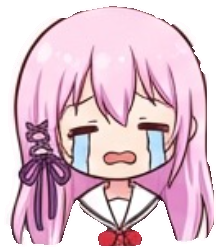
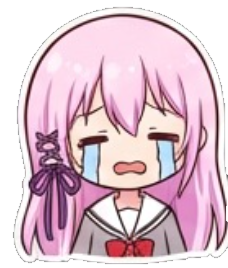
fix(kisara): preserve paused sticker uniform

diff --git a/DEVELOPMENT_NOTES.md b/DEVELOPMENT_NOTES.md
@@ -216,7 +216,7 @@
 - `npm test`: 3/3 Node tests passed for all theme IDs, canonical path stripping, and cross-theme article-context mapping.
 - `npm run build`: passed after the current Kisara site-wide presentation pass; 36 static pages generated, sitemap created, Pagefind indexed 36 pages.
 - Kisara Event 003 hidden-song flow (`2026-07-27`): `ココロスペアキー` is an unlockable one-tab-session secret track rather than a twelfth normal playlist entry. Normal `ended` playback loops only through the 11 base tracks; entering the secret track snapshots the previous normal track, time, and play intent, and secret completion restores that state. One page-lifecycle `AbortController` now owns audio/window listeners so Astro navigation cannot accumulate duplicate `ended` handlers. The solved investigation state reveals a compact achievement badge; active secret playback switches the player to a centered demon-pink emblem and emits masked heart silhouettes along separate curved paths. Browser checks confirmed one audio/player instance, `solved` achievement state, secret playback, clean return to `対策完了`, and no warning/error logs. `git diff --check`, `npm test` (3/3), and `npm run build` (42 pages, sitemap, 43-page Pagefind index) passed; fine particle motion remains for user visual acceptance.
-- Kisara demon-player sticker states (`2026-08-02`): the `kokoro-spare-key` player no longer uses the CSS triangle, pause bars, circular emblem, or mini equalizer. User sources `kisara/musicplayer1.png` and `kisara/musicplayer2.png` had baked checkerboard backgrounds and neighboring sticker fragments; the runtime RGBA assets `public/themes/kisara/assets/music-player-playing.png` and `music-player-paused.png` retain the character and a rebuilt smooth white sticker edge while removing those fragments. The demon variant maps the happy sticker to `playing` and the crying sticker to paused/loading states through the existing `data-state` flow, leaving normal and memory-secret players plus all playlist/session behavior unchanged. Desktop runtime checks confirmed both state swaps and removal of the old pseudo-elements; the `390x844` layout remained `390px` wide with a `224x66px` player and no overflow. Browser logs were empty, `git diff --check` passed, `npm test` passed 3/3, and `npm run build` generated 60 pages with a 61-page Pagefind index.
+- Kisara demon-player sticker states (`2026-08-02`): the `kokoro-spare-key` player no longer uses the CSS triangle, pause bars, circular emblem, or mini equalizer. User sources `kisara/musicplayer1.png` and `kisara/musicplayer2.png` had baked checkerboard backgrounds and neighboring sticker fragments; the runtime RGBA assets `public/themes/kisara/assets/music-player-playing.png` and `music-player-paused.png` retain the character and white sticker edge while removing those fragments. The first crying-sticker pass used a subject model and incorrectly removed gray uniform areas while leaving a ragged upper/right edge; that mask is superseded and must not be restored. The accepted correction removes only checker pixels connected to the source canvas border, preserving the complete gray uniform, collar, bow, hair, and original sticker outline. The demon variant maps the happy sticker to `playing` and the crying sticker to paused/loading states through the existing `data-state` flow, leaving normal and memory-secret players plus all playlist/session behavior unchanged. Desktop runtime checks confirmed both state swaps and removal of the old pseudo-elements; the `390x844` layout remained `390px` wide with a `224x66px` player and no overflow. Browser logs were empty, `git diff --check` passed, `npm test` passed 3/3, and `npm run build` generated 60 pages with a 61-page Pagefind index.
 - Kisara homepage Event 003 investigation scene (`2026-07-25`): replaced the old three-row project runway with a full-width gacha-event investigation interface built around the approved `picture.png`. The complete-ratio photo keeps its hotspot aligned to the taped-in pink-haired character; activating it draws a clue path and reveals a second control, which opens a native modal styled as a normal anime-game chapter/item unlock and displays the approved `win.png`. The custom element owns the `idle -> traced -> solved` state, modal scroll lock, Escape/backdrop cleanup, and reconnect behavior after Astro navigation. Desktop `1280x720` and mobile `390x844` checks retained equal `scrollWidth` and `clientWidth`; the mobile modal fit inside `370x757`, the Works/back return reset and rebound the interaction, and page warning/error logs were empty. `git diff --check`, `npm test` (3/3), and `npm run build` (36 pages, sitemap, 37-page Pagefind index) passed. Fine image-edge and clue placement acceptance remains with the user.
 - Kisara homepage refrigerator `002` follow-up (`2026-07-25`, based on checkpoint `48e34e5`): replaced the simultaneous scan/light/text entrance with a text-free black start. One black curtain retreats left while a pre-rendered dark blurred copy dissolves over the slightly softened final image, so brightness and clarity recover without a full-screen animated blur. Replay and return-to-gate reset use an explicit forced reset frame so headings, inventory, shade, image scale, and curtain cannot retain the previous open state. The `001 -> 002` and `002 -> 003` bridges now overlap adjacent sections by `3px`, keep opaque endpoint seals, and delay decorative mixing away from the join; screenshot-row sampling reduced the former lower seam jump from roughly `36` RGB-sum units to `0-5`, while the upper join is generally `3-9` outside real content edges. Desktop and `390x844` checks retained zero horizontal overflow. `git diff --check`, `npm test` (3/3), and `npm run build` (36 pages, sitemap, 37-page Pagefind index) passed; fine visual timing and final seam acceptance remain with the user.
 - Kisara Event 003 camera-focus correction (`2026-07-25`): vertically mirrored the clue path so it leaves the hotspot toward the lower-right and moved the clue control below the hotspot on desktop and mobile. The first camera-frame pass incorrectly stacked the original edge mask, a duplicated blurred photo, horizontal/bottom fog transitions, an optical vignette, and extra rings; the user correctly identified the resulting multi-shell blur, and that approach is superseded. The current scene renders one unmasked source image only, with one restrained in-image vignette, viewfinder corners/HUD, and an image-load-plus-IntersectionObserver focus pull from blur/overscan to the final sharp frame. DOM checks confirmed zero duplicate-photo layers and no panel fog pseudo-element; desktop and `390px` layouts retained equal `scrollWidth` and `clientWidth`, the mobile clue remained below the hotspot, and warning/error logs were empty. `git diff --check`, `npm test` (3/3), and `npm run build` (36 pages, sitemap, 37-page Pagefind index) passed; fine focus timing remains for user visual acceptance.
